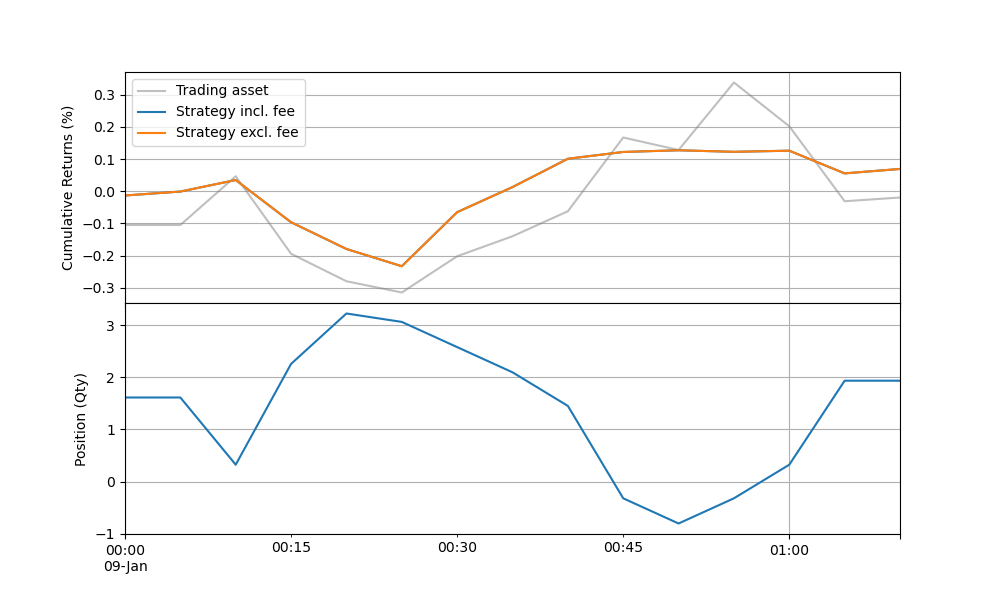
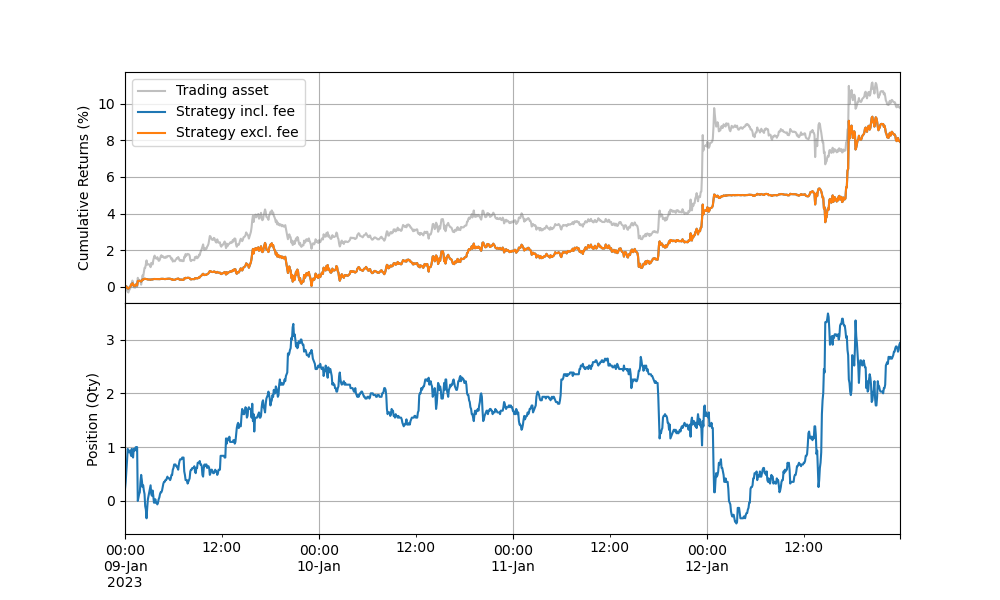
set lag after fill

diff --git a/mmtester/multi_mm_strategy.py b/mmtester/multi_mm_strategy.py
@@ -16,6 +16,7 @@ class MultiMMStrategy(exchange.BaseStrategy):
         self.spot_position: position.Position = position.Position(spot_balance, self.spot_instr, length)
         self.future_position: position.Position = position.Position(spot_balance, self.future_instr, length)
         self.requote: bool = True
+        self.wait_step = 0
 
 
     def on_cancel(self, order: order.Order):
@@ -38,19 +39,27 @@ class MultiMMStrategy(exchange.BaseStrategy):
     
     def on_tick(self, record: record.Record):
         if record is not None:
-            if record.counter > 0 and (record.counter  % self.frequency == 0 or self.requote):
-                self.exchange.cancel_all(record.timestamp, self.name)
-                self.quoter.future_q = self.future_position.total_qty / (self.future_position.initial_balance * self.max_leverage) + 1
-                self.quoter.spot_q = self.spot_position.total_qty / (self.spot_position.initial_balance * self.max_leverage) - 1
-                self.quoter.tau = (record.counter * self.data_frequency) % (self.total_time * 1000)
-                self.quoter.tau /= (self.total_time * 1000)
-                self.quoter.tau = 1 - self.quoter.tau
+            if record.counter > 0:
+                if self.requote:
+                    self.exchange.cancel_all(record.timestamp, self.name)
+                    self.requote = False
+                    self.wait_step = 0
+                elif record.counter  % self.frequency == 0 or self.wait_step == 100:
+                    self.wait_step = 0
+                    self.exchange.cancel_all(record.timestamp, self.name)
+                    self.quoter.future_q = self.future_position.total_qty / (self.future_position.initial_balance * self.max_leverage) + 1
+                    self.quoter.spot_q = self.spot_position.total_qty / (self.spot_position.initial_balance * self.max_leverage) - 1
+                    self.quoter.tau = (record.counter * self.data_frequency) % (self.total_time * 1000)
+                    self.quoter.tau /= (self.total_time * 1000)
+                    self.quoter.tau = 1 - self.quoter.tau
 
-                (spot_bids, spot_asks, future_bids, future_asks) = self.quoter.quote(record.timestamp, self, 
-                                                                                     record.get_instrument_data(self.spot_instr, "mid"), 
-                                                                                     record.get_instrument_data(self.future_instr, "mid"))
-                self.exchange.add_quotes(spot_bids, spot_asks)
-                self.exchange.add_quotes(future_bids, future_asks)
-                self.requote = False
+                    (spot_bids, spot_asks, future_bids, future_asks) = self.quoter.quote(record.timestamp, self, 
+                                                                                        record.get_instrument_data(self.spot_instr, "mid"), 
+                                                                                        record.get_instrument_data(self.future_instr, "mid"))
+                    self.exchange.add_quotes(spot_bids, spot_asks)
+                    self.exchange.add_quotes(future_bids, future_asks)
+                    self.requote = False
+                else:
+                    self.wait_step += 1
             self.spot_position.record(record)
             self.future_position.record(record)

diff --git a/sample.py b/sample.py
@@ -7,7 +7,7 @@ from mmtester.inverse_instrument import InverseInstrument
 from mmtester.data import Data
 
 if __name__ == '__main__':
-    df = pd.read_csv("./mmtester/data_generator/data/data.csv.gz", header=0, index_col=0, parse_dates=[0]).iloc[:36000]
+    df = pd.read_csv("./mmtester/data_generator/data/data.csv.gz", header=0, index_col=0, parse_dates=[0])
     exch = Exchange(500, 500)
     spot_instr = InverseInstrument("perp", 0.000, 0.0005)
     future_instr = InverseInstrument("future", -0.0001, 0.0005)
@@ -35,7 +35,7 @@ if __name__ == '__main__':
                           future_q_skew=1,
                           tick_size=0.05,
                           lot_size=0.001,
-                          max_quote_size=5)
+                          max_quote_size=1)
                           
     strategy = MultiMMStrategy("test_strategy", quoter, 2, 1, spot_instr, future_instr, 36000, 200, df.shape[0])
     exch.register(strategy)
